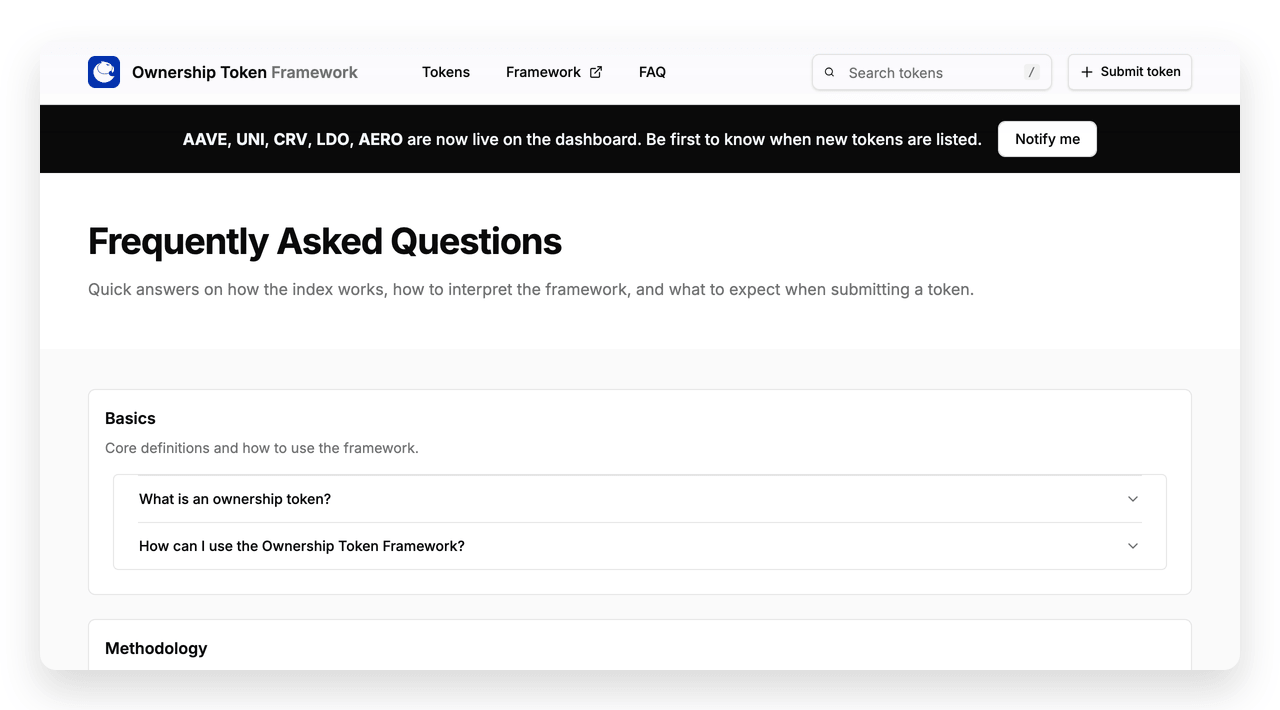
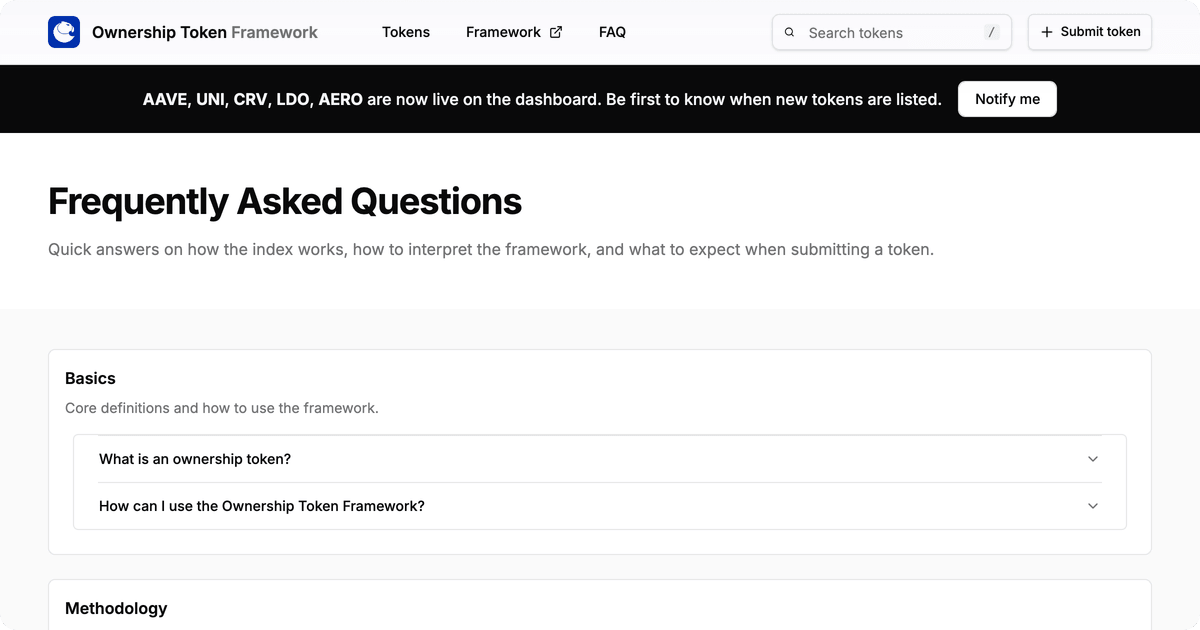
Update og image resolution

diff --git a/.github/prompts/createOGImageScreenshots.prompt.md b/.github/prompts/createOGImageScreenshots.prompt.md
@@ -20,7 +20,8 @@ I want to create OpenGraph image screenshots for my website. Please help me with
   - Main routes: `route-name.png` (e.g., `index.png`, `faq.png`)
   - Token routes: `tokens-{token-id}.png` (e.g., `tokens-aave.png`)
 - Base viewport resolution: 1200x630 pixels (OpenGraph standard)
-- Final resolution with effects: 1280x710 pixels (includes 40px padding on all sides)
+- Double check that resolution is correct for all screenshots, 1200x630 pixels is a must!
+- Final resolution: 1200x630 pixels (padding and effects are applied then resized back to standard dimensions)
 - Use device scale factor of 2 for high-quality rendering
 
 ## Visual Effects (Enhanced Version)
